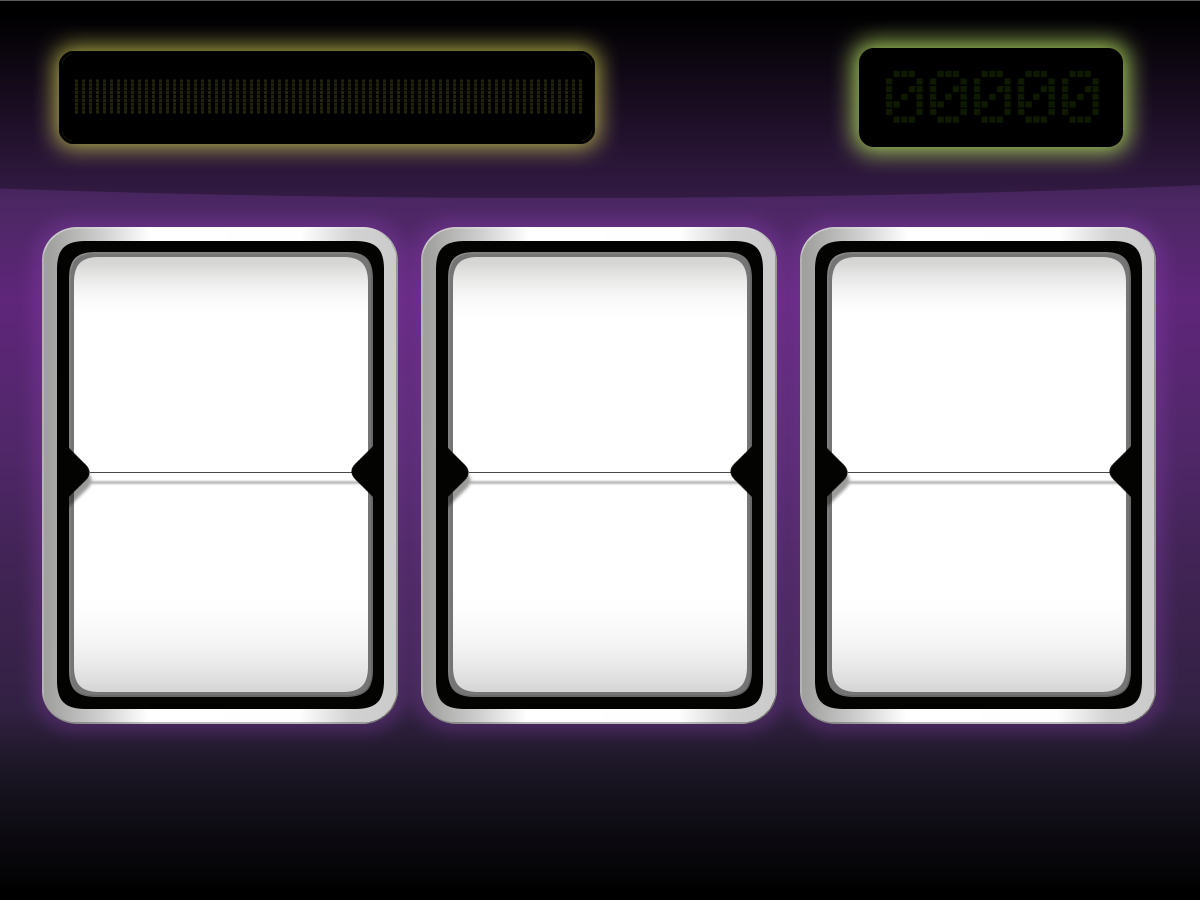
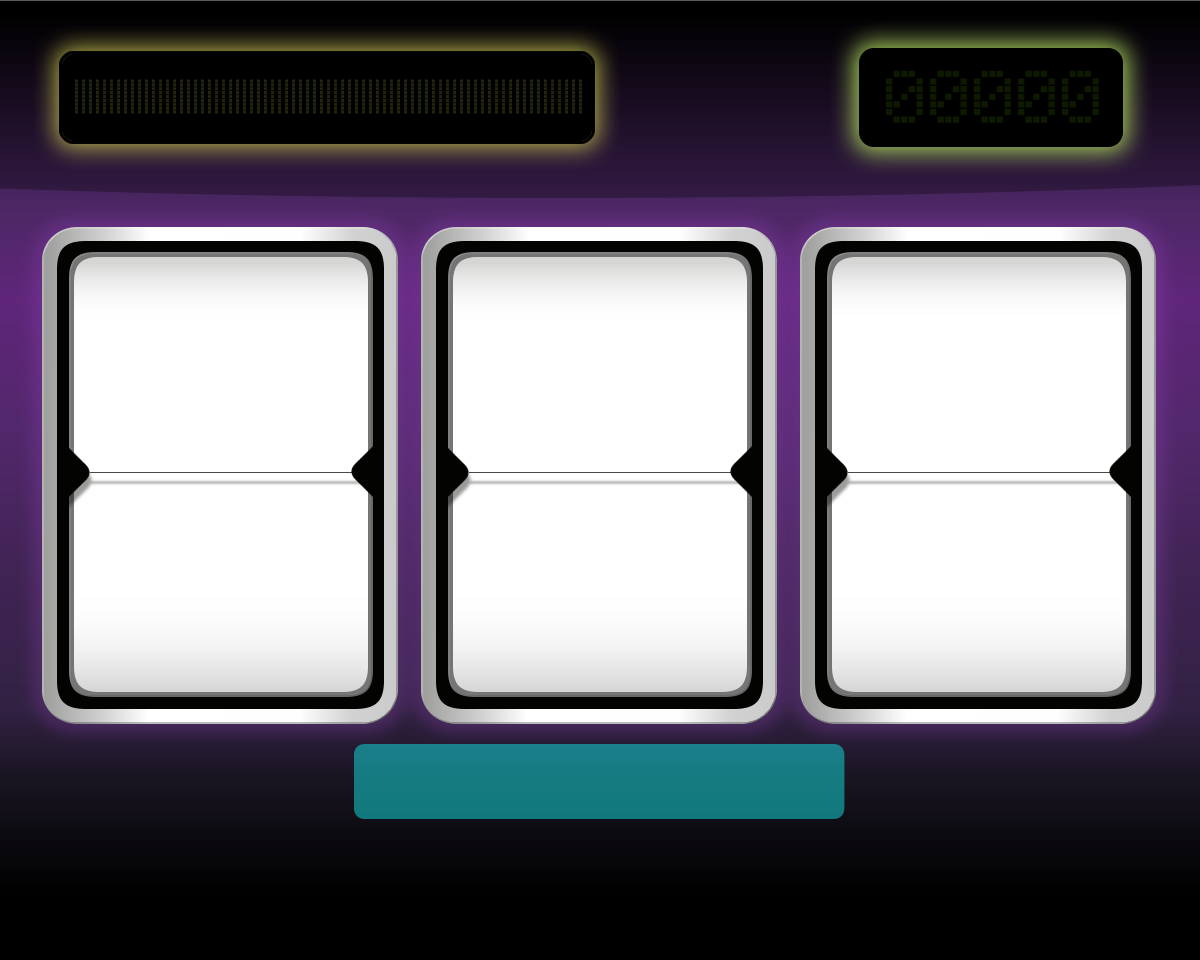
com

diff --git a/Game/src/game/pack/application.css b/Game/src/game/pack/application.css
@@ -1,5 +1,5 @@
 
-#AnchorPane{
+/*#AnchorPane{
     //-fx-background-image: url("file:Game/src/ui_images/background.png");
     -fx-background-repeat: stretch;
     //-fx-effect: dropshadow(three-pass-box, white, 30, 0.5, 0, 0);
@@ -9,6 +9,7 @@
 .button {
     -fx-background-color: rgba(207, 78, 202, 0);
     -fx-border-color: black;
+    //-fx-border-radius: 30;
      -fx-font-size: 15pt;
 }
 
@@ -18,5 +19,198 @@
 
 .button:pressed{
     -fx-background-color: rgba(207, 78, 202, 0.8);
+}*/
+
+
+.buttonPlay {
+    -fx-background-color:
+        linear-gradient(#f0ff35, #a9ff00),
+        radial-gradient(center 50% -40%, radius 200%, #b8ee36 45%, #80c800 50%);
+    -fx-background-radius: 6, 5;
+    -fx-background-insets: 0, 1;
+    -fx-effect: dropshadow( three-pass-box , rgba(0,0,0,0.4) , 5, 0.0 , 0 , 1 );
+    -fx-text-fill: #395306;
+
+
+    -fx-background-radius: 5em;
+    -fx-min-width: 130px;
+    -fx-min-height: 130px;
+    -fx-max-width: 130px;
+    -fx-max-height: 130px;
+
+    //-fx-background-color: rgba(0, 255, 0, 1.0);
+
+
+    //-fx-padding: 10;
+    //-fx-background-color: firebrick;
+    //-fx-effect: dropshadow(three-pass-box, rgba(0,0,0,0.8), 10, 0, 0, 0);
+    //-fx-text-fill: white;
+    //-fx-border-color: black;
+    //-fx-border-radius: 30;
+    -fx-font-size: 20pt;
+    -fx-font-weight: bold;
 }
 
+.buttonPlay:hover{
+    //-fx-background-color: rgba(0, 255, 0, 0.9);
+    -fx-font-size: 22pt;
+}
+
+.buttonPlay:pressed{
+    //-fx-background-color: rgba(0, 255, 0, 0.6);
+    -fx-font-size: 20pt;
+}
+
+.buttonStop {
+
+    -fx-background-color:
+        linear-gradient(#FFD8D8, #FFB6B6),
+        radial-gradient(center 50% -40%, radius 200%, #FFB2B2 45%, #FF7575 50%);
+    -fx-background-radius: 6, 5;
+    -fx-background-insets: 0, 1;
+    -fx-effect: dropshadow( three-pass-box , rgba(0,0,0,0.4) , 5, 0.0 , 0 , 1 );
+    -fx-text-fill: #395306;
+
+
+    -fx-background-radius: 5em;
+    -fx-min-width: 130px;
+    -fx-min-height: 130px;
+    -fx-max-width: 130px;
+    -fx-max-height: 130px;
+
+    //-fx-background-color: rgba(255, 0, 0, 1.0);
+    //-fx-padding: 10;
+    //-fx-background-color: firebrick;
+    //-fx-effect: dropshadow(three-pass-box, rgba(0,0,0,0.8), 10, 0, 0, 0);
+    //-fx-text-fill: white;
+    //-fx-border-color: black;
+    //-fx-border-radius: 30;
+    -fx-font-size: 20pt;
+    -fx-font-weight: bold;
+}
+
+.buttonStop:hover{
+    //-fx-background-color: rgba(255, 0, 0, 0.9);
+    -fx-font-size: 22pt;
+}
+
+.buttonStop:pressed{
+    //-fx-background-color: rgba(255, 0, 0, 0.6);
+    -fx-font-size: 20pt;
+}
+
+
+.buttonReset {
+
+    -fx-background-color:
+        linear-gradient(#ffd6ea, #ffaed6),
+        radial-gradient(center 50% -40%, radius 200%, #FFABD4 45%, #FF6AB4 50%);
+    -fx-background-radius: 6, 5;
+    -fx-background-insets: 0, 1;
+    -fx-effect: dropshadow( three-pass-box , rgba(256,256,256,0.4) , 5, 0.0 , 0 , 1 );
+    -fx-text-fill: #395306;
+
+
+    -fx-background-radius: 5em;
+
+
+    //-fx-background-color: rgba(214, 131, 237, 1.0);
+    //-fx-padding: 10;
+    //-fx-background-color: firebrick;
+    //-fx-effect: dropshadow(three-pass-box, rgba(0,0,0,0.8), 10, 0, 0, 0);
+    //-fx-text-fill: white;
+    //-fx-border-color: black;
+    //-fx-border-radius: 30;
+    -fx-font-size: 17pt;
+    -fx-font-weight: bold;
+}
+
+.buttonReset:hover{
+    //-fx-background-color: rgba(214, 131, 237, 0.9);
+
+    -fx-font-size: 19pt;
+}
+
+.buttonReset:pressed{
+    //-fx-background-color: rgba(214, 131, 237, 0.6);
+    -fx-font-size: 17pt;
+}
+
+.buttonCashout {
+
+
+    -fx-background-color:
+        linear-gradient(#FFDFBE, #FFBF7E),
+        radial-gradient(center 50% -40%, radius 200%, #FFBC78 45%, #EF8B27 50%);
+    -fx-background-radius: 6, 5;
+    -fx-background-insets: 0, 1;
+    -fx-effect: dropshadow( three-pass-box , rgba(0,0,0,0.4) , 5, 0.0 , 0 , 1 );
+    -fx-text-fill: #395306;
+    -fx-background-radius: 5em;
+
+    //-fx-background-color: rgba(236, 207, 126, 1.0);
+    //-fx-padding: 10;
+    //-fx-background-color: firebrick;
+    -fx-effect: dropshadow(three-pass-box, rgba(0,0,0,0.8), 10, 0, 0, 0);
+    //-fx-text-fill: white;
+    //-fx-border-color: black;
+    //-fx-border-radius: 30;
+    -fx-font-size: 17pt;
+    -fx-font-weight: bold;
+}
+
+.buttonCashout:hover{
+    //-fx-background-color: rgba(236, 207, 126, 0.9);
+    -fx-font-size: 19pt;
+}
+
+.buttonCashout:pressed{
+    //-fx-background-color: rgba(236, 207, 126, 0.6);
+    -fx-font-size: 17pt;
+}
+
+.buttonBetToggle {
+    -fx-background-color:
+        linear-gradient(#D3E8FF, #50FFFF),
+        radial-gradient(center 50% -40%, radius 200%, #47FFFF 45%, #12DADA 50%);
+        -fx-background-radius: 6, 5;
+    -fx-background-insets: 0, 1;
+    -fx-effect: dropshadow( one-pass-box , rgba(0,0,0,0.4) , 10, 0 , 0 , 0 );
+    -fx-text-fill: #395306;
+    //-fx-background-radius: 5em;
+-fx-font-size: 17pt;
+-fx-font-weight: bold;
+
+
+}
+
+.toggle-button:selected {
+    -fx-background-color:
+        linear-gradient(#50FFFF, #D3E8FF),
+        radial-gradient(center 50% -40%, radius 200%, #12DADA 45%, #47FFFF 50%);
+        -fx-background-radius: 6, 5;
+    -fx-background-insets: 0, 1;
+    -fx-effect: dropshadow( one-pass-box , rgba(256,256,256,1.0) , 12, 1.0 , 0 , 0 );
+    -fx-text-fill: #395306;
+    //-fx-background-radius: 5em;
+-fx-font-size: 19pt;
+}
+
+.buttonBetToggle:hover{
+-fx-font-size: 19pt;
+}
+
+.buttonBetToggle:pressed{
+-fx-font-size: 17pt;
+}
+
+
+.buttonExit {
+    -fx-background-color: rgba(93,38,120, 100);
+    //-fx-border-color: white;
+    -fx-font-size: 12pt;
+    -fx-background-radius: 5em;
+}
+.buttonExit:hover {
+-fx-underline: true;
+}

diff --git a/Game/src/game/pack/Main.java b/Game/src/game/pack/Main.java
@@ -15,7 +15,7 @@ public class Main extends Application {
         Parent root = FXMLLoader.load(getClass().getResource("MainMenu.fxml"));
         //Parent root = FXMLLoader.load(getClass().getResource("GameUI.fxml"));
         primaryStage.setTitle("Slot Machine");
-        primaryStage.setScene(new Scene(root, 1200, 900));
+        primaryStage.setScene(new Scene(root, 1200, 960));
         primaryStage.getIcons().add(new Image("file:Game/src/ui_images/icon.png"));
         primaryStage.setResizable(false);
         //primaryStage.initStyle(StageStyle.UNDECORATED);
